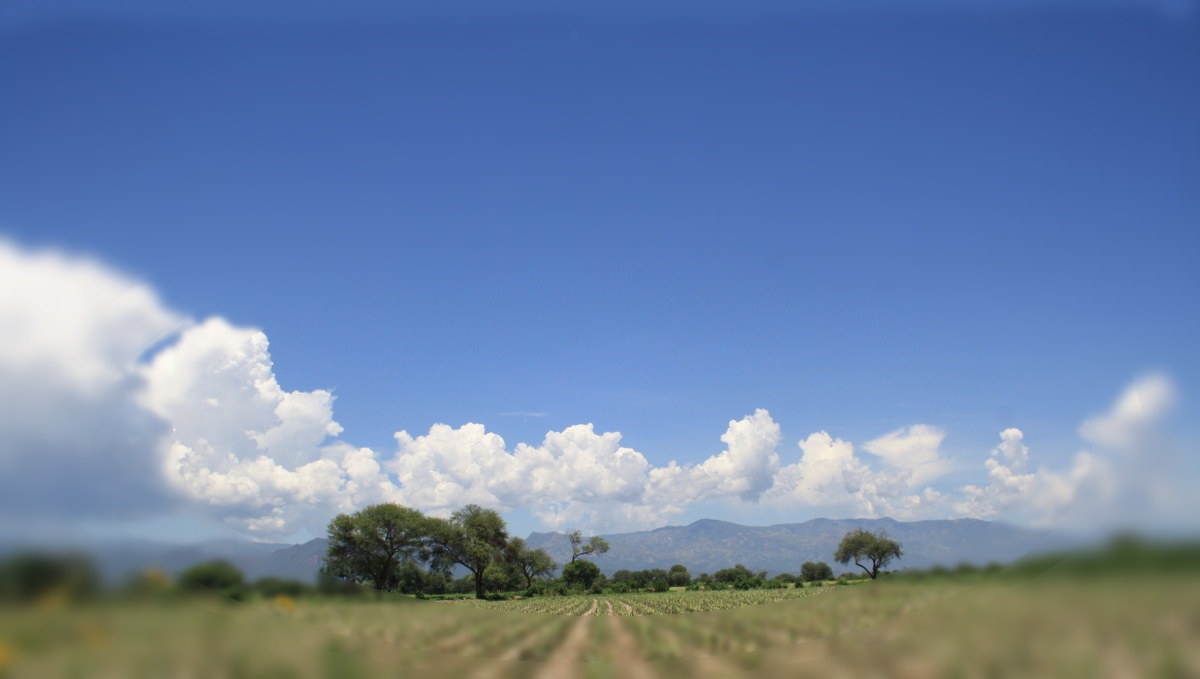
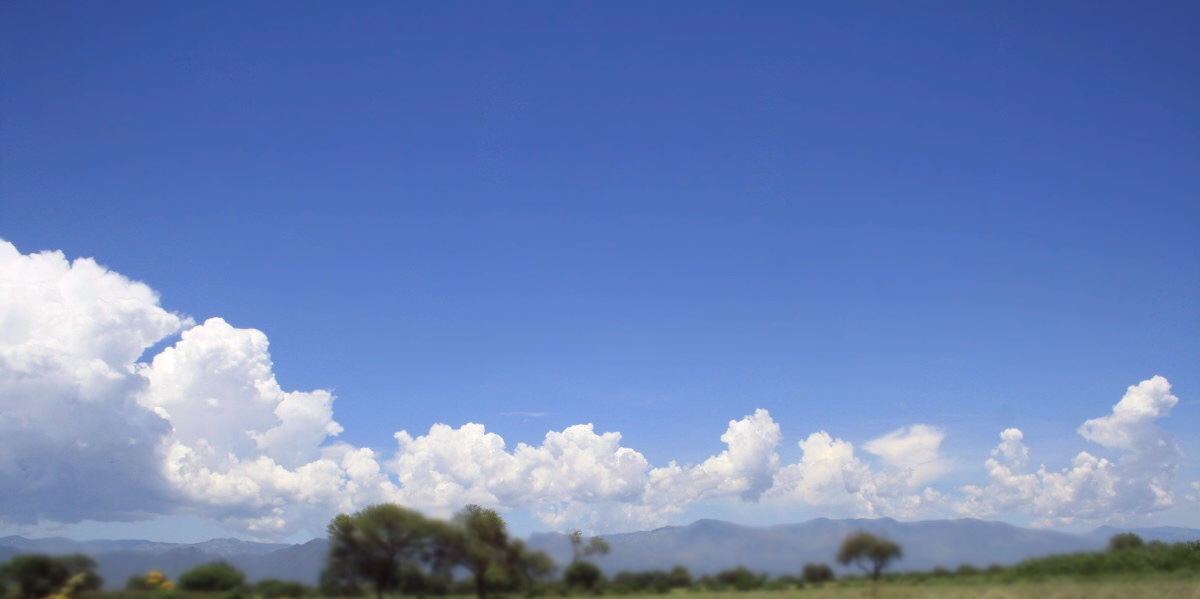
Medianoche cambios, header, backgrounds, footer

diff --git a/front-end/css/min/phyro.min.css b/front-end/css/min/phyro.min.css
@@ -1,1 +1,1 @@
-@import url(http://fonts.googleapis.com/css?family=Lato:300,400,700);body,h1,h2,h3,h4,h5,p{font-weight:300}nav h4 a img{margin-top:-5px}footer{background:#ebe9e5}footer h2,footer h3 a,footer h4 a,footer h5,footer h5 a{color:#fff;-webkit-transition:.6s ease;transition:.6s ease}footer h5 a:hover,footer h5:hover{color:#BCBAC2}footer h3 a:hover{color:#A1144F}footer h4 a:hover{color:#55ACEE}.nav-movil{font-weight:900;margin-bottom:0}.button{padding-top:12px;padding-bottom:12px}.padding-logo{padding-top:.7em}.mr{margin-right:10px}#menu-movil li{padding-bottom:10px;font-weight:900}.bg-white{background-color:rgba(255,255,255,1)}.inline{display:inline}.nav-menu{margin-top:10px;font-weight:900;font-size:2em;-webkit-transition:all 1s ease;transition:all 1s ease}.nav-menu:hover{color:rgba(100,100,100,.8)}.orange:hover{color:#E76914}.blue:hover{color:#2ba6cb}.green:hover{color:#43ac6a}.yellow:hover{color:#FFD800}.small{font-size:1em;margin-right:.4em}.tBold{font-weight:400}.mli{margin-left:.4em}.primaryC{color:#d0233c}.orbit-timer{left:-10000px;top:auto;height:1px;overflow:hidden;position:absolute;width:1px}.sFull{height:100vh}.header-index{background:url(https://unsplash.imgix.net/39/F9g2FiPUSyC7IybhyI2p_09.jpg) 50% 50%/cover}.zeroM{margin:0}.bg-laptop{background:url(/static/img/whatwedo/website_03.jpg) 80% 0/cover no-repeat fixed}#websites{background:url(/static/img/whatwedo/website_03.jpg) 80% 0/cover no-repeat fixed;height:100vh}#ecommerce{background:url(/static/img/whatwedo/website_02.jpg) 80% 0/cover no-repeat fixed;height:100vh}#ux-design{background:url(/static/img/whatwedo/website_03.jpg) 80% 0/cover no-repeat fixed;height:100vh}#mkt-online{background:url(/static/img/whatwedo/website_02.jpg) 80% 0/cover no-repeat fixed;height:100vh}#appWeb{background:url(/static/img/whatwedo/website_03.jpg) 80% 0/cover no-repeat fixed;height:100vh}.medium{font-size:2em}.socialMedia{font-size:1.2em;-webkit-transition:all .5s ease;transition:all .5s ease}.socialMedia:hover{font-size:1.5em}.large{font-size:4em}.menu-padding{padding-top:1em;padding-bottom:.1em}.padding-top{padding-top:2.5em}.padding-top-large{padding-top:5em}.contact{padding-top:3em;padding-bottom:5em}#foo{background:url(/static/img/phyro.location_01.jpg) 50% 0/cover no-repeat;box-shadow:inset 0 82px 222px -5px rgba(61,95,162,1);height:600px;padding:0}
+@import url(http://fonts.googleapis.com/css?family=Lato:300,400,700);body,h1,h2,h3,h4,h5,p{font-weight:600}nav h4 a img{margin-top:-5px}footer{background:#ebe9e5}footer h2,footer h3 a,footer h4 a,footer h5,footer h5 a{color:#fff;font-weight:700;-webkit-transition:.6s ease;transition:.6s ease}footer h5:last-child{color:#d0233c}footer h3 a:hover,footer h4 a:hover,footer h5 a:hover{color:#55ACEE}#head h2,#head h3,#head h5{color:#fff}#head h3{text-shadow:0 0 10px rgba(144,144,144,1)}.h2Text{font-size:3em}.nav-movil{font-weight:900;margin-bottom:0}.button{padding-top:12px;padding-bottom:12px}.padding-logo{padding-top:.7em}.mr{margin-right:10px}#menu-movil li{padding-bottom:10px;font-weight:900}.bg-white{background-color:rgba(255,255,255,1)}.inline{display:inline}.nav-menu{margin-top:10px;font-weight:900;font-size:2em;-webkit-transition:all 1s ease;transition:all 1s ease}.nav-menu:hover{color:rgba(100,100,100,.8)}.orange:hover{color:#E76914}.blue:hover{color:#2ba6cb}.green:hover{color:#43ac6a}.yellow:hover{color:#FFD800}.small{font-size:1em;margin-right:.4em}.tBold{font-weight:400}.mli{margin-left:.4em}.primaryC{color:#d0233c}.orbit-timer{left:-10000px;top:auto;height:1px;overflow:hidden;position:absolute;width:1px}.sFull{height:100vh}.header-index{background:url(/static/img/home/home_head_01.jpg) 50% 50%/cover}.zeroM{margin:0}.bg-laptop{background:url(/static/img/whatwedo/website_03.jpg) 80% 0/cover no-repeat fixed}#websites{background:url(/static/img/whatwedo/website_03.jpg) 80% 0/cover no-repeat fixed;height:100vh}#ecommerce{background:url(/static/img/whatwedo/website_02.jpg) 80% 0/cover no-repeat fixed;height:100vh}#ux-design{background:url(/static/img/whatwedo/website_03.jpg) 80% 0/cover no-repeat fixed;height:100vh}#mkt-online{background:url(/static/img/whatwedo/website_02.jpg) 80% 0/cover no-repeat fixed;height:100vh}#appWeb{background:url(/static/img/whatwedo/website_03.jpg) 80% 0/cover no-repeat fixed;height:100vh}.medium{font-size:2em}.socialMedia{font-size:1.2em;-webkit-transition:all .5s ease;transition:all .5s ease}.socialMedia:hover{font-size:1.5em}.large{font-size:4em}.menu-padding{padding-top:1em;padding-bottom:.1em}.padding-top{padding-top:2.5em}.padding-top-large{padding-top:5em}.contact{padding-top:3em;padding-bottom:5em}#foo{background:url(/static/img/phyro.location_01.jpg) 50% 0/cover no-repeat;height:calc(100vh - 72px);padding:0}

diff --git a/back-end/phyro/templates/home/index.html b/back-end/phyro/templates/home/index.html
@@ -2,24 +2,30 @@
 {% block contenido %}
 <header class="padding-top header-index">
     <section class="row sFull">
-        <div class="small-12 medium-8 medium-centered columns text-center padding-top">
+        <div id="head"class="small-12 medium-8 medium-centered columns text-center padding-top">
             <div class="padding-top show-for-medium-up"></div>
-            <h5 style="color:gray;"><strong>Phyro | Estudio Creativo Dígital</strong></h5>
-            <h2>DESARROLLAMOS</h2>
-            <h2><strong>TUS IDEAS</strong></h2>
+            <h5><strong>Phyro | Estudio Creativo Dígital</strong></h5>
+            <div class="show-for-medium-up">
+                <h2 class="h2Text">DESARROLLAMOS</h2>
+                <h2 class="h2Text"><strong>TUS IDEAS</strong></h2>
+            </div>
+            <div class="show-for-small-only">
+                <h2>DESARROLLAMOS</h2>
+                <h2><strong>TUS IDEAS</strong></h2>
+            </div>
             <hr>
-            <h5 class="show-for-medium-up">Y las herramientas que necesites para:</h5>
-            <h5 class="show-for-small-only" style="color:white;">Y las herramientas que necesites para:</h5>
+            <div class="show-for-medium-up padding-top"></div>
+            <h5 style="color:#d0233c;">Y las herramientas que necesites para:</h5>
             <ul class="toolPhyro" data-orbit 
                   data-options="animation_speed:800;
-                  timer_speed: 2500;
+                  timer_speed: 2700;
                   slide_number: false;
                   pause_on_hover: false;
                   navigation_arrows:false;
                   bullets:true;">
-                <li><h3><a href="#"><strong>ENCONTRAR NUEVOS MERCADOS</strong></a></h3></li>
-                <li><h3><a href="#"><strong>REDISEÑAR TU SITIO WEB</strong></a></h3></li>
-                <li><h3><a href="#"><strong>CREAR TU PRIMER TIENDA EN LÍNEA</strong></a></h3></li>
+                <li><h3><strong>ENCONTRAR NUEVOS MERCADOS</strong></h3></li>
+                <li><h3><strong>REDISEÑAR TU SITIO WEB</strong></h3></li>
+                <li><h3><strong>CREAR TU PRIMER TIENDA EN LÍNEA</strong></h3></li>
             </ul>
             <div class="row">
                 <div class="small-6 columns">
@@ -35,9 +41,14 @@
 <section class="padding-top ">
     <article class="row">
         <div class="large-6 columns text-center ">
-            <h3><a href="/team">QUIENES SOMOS</a></h3>
+            <h3><a href="/team"><strong>QUIENES SOMOS</strong></a></h3>
             <h2>DESARROLLAMOS LAS IDEAS</h2>
-            <p>Phyro es un grupo de amigos a los que nos apasiona la tecnología, cada miembro del equipo esta especialiado en areas:  </p>
+            <div class="row">
+                <div class="medium-8 medium-centered large-12 columns">
+                    <p>Phyro es un grupo de amigos a los que nos apasiona la tecnología, cada miembro del equipo esta especialiado en areas:</p>
+                </div>
+            </div>
+            
             <ul class="toolPhyro" data-orbit 
                   data-options="animation_speed:800;
                   timer_speed: 2500;

diff --git a/back-end/phyro/templates/loquehacemos/lo-que-hacemos.html b/back-end/phyro/templates/loquehacemos/lo-que-hacemos.html
@@ -2,7 +2,7 @@
 {% block contenido %}
 <header class="mainHeader padding-top">
     <section class="row padding-top">
-        <div class="small-12 columns text-center">
+        <div class="small-12 medium-8 medium-centered columns text-center">
             <h1>Desarrollamos tus Ideas</h1>
             <h5>Phyro es un  Estudio Creativo Digital. Enfocado en Desarrollar y Diseñar soluciones, en base a las ideas y necesidades de las marcas ( empresas),  para darles vida y conectar con sus clientes.</h5>
         </div>
@@ -13,33 +13,6 @@
         <div class="small-12 columns text-center">
             <h2>NUESTRA EXPERIENCIA</h2>
         </div>
-    </article>
-    <article class="row padding-top">
-        <section class="medium-10 medium-centered columns">
-            <div data-magellan-expedition="fixed" class="icon-bar five-up">
-              <a class="item intLink" href="#websites">
-                <i class="icon-screen"></i>
-                <label class="show-for-medium-up">Web Sites</label>
-              </a>
-              
-              <a href="#ecommerce" class="item intLink">
-                <i class="icon-cart"></i>
-                <label class="show-for-medium-up">Ecommerce</label>
-              </a>
-              <a href="#ux-design" class="item intLink">
-                <i class="icon-html5"></i>
-                <label class="show-for-medium-up">Diseño Web</label>
-              </a>
-              <a href="#mkt-online" class="item intLink">
-                <i class="icon-stats"></i>
-                <label class="show-for-medium-up">Marketing</label>
-              </a>
-              <a href="#appWeb" class="item intLink">
-                <i class="icon-mobile"></i>
-                <label class="show-for-medium-up">Aplicaciones</label>
-              </a>
-            </div>
-        </section>
     </article>
 </section>
 

diff --git a/front-end/css/prefixed/phyro.css b/front-end/css/prefixed/phyro.css
@@ -1,32 +1,37 @@
 @import url("http://fonts.googleapis.com/css?family=Lato:300,400,700");
 body, h1, h2, h3, h4, h5, p{
-    font-weight:300;
+    font-weight:600;
 }
 nav h4 a img{
     margin-top: -5px;
 }
-
 footer{
     background: #ebe9e5;
 
 }
 footer h2, footer h3 a, footer h4 a, footer h5 a, footer h5 {
     color: #fff;
+    font-weight: bold;
     -webkit-transition: .6s ease;
             transition: .6s ease;
 }
-footer h5 a:hover, footer h5:hover {
-    color: #BCBAC2;
+footer h5:last-child{
+    color: #d0233c;
+}
 
-}
-footer h3 a:hover{
-    color: #A1144F;
-}
-footer h4 a:hover{
+footer h5 a:hover,footer h4 a:hover,footer h3 a:hover{
     color: #55ACEE;
 
 }
-
+#head h5, #head h3, #head h2{
+    color:white;
+}
+#head h3{
+    text-shadow: 0px 0px 10px rgba(144, 144, 144, 1);
+}
+.h2Text{
+    font-size: 3em;
+}
 .nav-movil{
     font-weight: 900;
     margin-bottom: 0;
@@ -98,7 +103,7 @@ width: 1px;
     height: 100vh; 
 }
 .header-index{
-    background: url('https://unsplash.imgix.net/39/F9g2FiPUSyC7IybhyI2p_09.jpg');
+    background: url('/static/img/home/home_head_01.jpg');
     background-size: cover;
     background-position: 50% 50%;
 }
@@ -171,7 +176,6 @@ width: 1px;
 #foo { 
     background: url(/static/img/phyro.location_01.jpg) no-repeat 50% 0%;
     background-size: cover;
-    box-shadow: inset 0px 82px 222px -5px rgba(61,95,162,1);
-    height: 600px;
+    height: calc(100vh - 72px);
     padding: 0;
 }

diff --git a/front-end/css/phyro.css b/front-end/css/phyro.css
@@ -1,31 +1,36 @@
 @import url("http://fonts.googleapis.com/css?family=Lato:300,400,700");
 body, h1, h2, h3, h4, h5, p{
-    font-weight:300;
+    font-weight:600;
 }
 nav h4 a img{
     margin-top: -5px;
 }
-
 footer{
     background: #ebe9e5;
 
 }
 footer h2, footer h3 a, footer h4 a, footer h5 a, footer h5 {
     color: #fff;
+    font-weight: bold;
     transition: .6s ease;
 }
-footer h5 a:hover, footer h5:hover {
-    color: #BCBAC2;
+footer h5:last-child{
+    color: #d0233c;
+}
 
-}
-footer h3 a:hover{
-    color: #A1144F;
-}
-footer h4 a:hover{
+footer h5 a:hover,footer h4 a:hover,footer h3 a:hover{
     color: #55ACEE;
 
 }
-
+#head h5, #head h3, #head h2{
+    color:white;
+}
+#head h3{
+    text-shadow: 0px 0px 10px rgba(144, 144, 144, 1);
+}
+.h2Text{
+    font-size: 3em;
+}
 .nav-movil{
     font-weight: 900;
     margin-bottom: 0;
@@ -96,7 +101,7 @@ width: 1px;
     height: 100vh; 
 }
 .header-index{
-    background: url('https://unsplash.imgix.net/39/F9g2FiPUSyC7IybhyI2p_09.jpg');
+    background: url('/static/img/home/home_head_01.jpg');
     background-size: cover;
     background-position: 50% 50%;
 }
@@ -168,7 +173,6 @@ width: 1px;
 #foo { 
     background: url(/static/img/phyro.location_01.jpg) no-repeat 50% 0%;
     background-size: cover;
-    box-shadow: inset 0px 82px 222px -5px rgba(61,95,162,1);
-    height: 600px;
+    height: calc(100vh - 72px);
     padding: 0;
 }

diff --git a/back-end/phyro/templates/blocks/header.html b/back-end/phyro/templates/blocks/header.html
@@ -46,9 +46,9 @@
 <footer id="foo">
    <div class="row">
        <div class="small-12 medium-8 medium-centered large-6 large-centered columns text-center contact">
-            <h2>Get In Touch</h2>
+            <h2>Llamanos</h2>
             <hr />
-            <h5>¿Tienes una idea o proyecto creativo?, llamanos nos encantaria escucharte.</h5>
+            <h5>¿Tienes una idea o proyecto creativo? Nos encantaria escucharte.</h5>
 
            <h3 class="padding-top"><a href="mailto:hello@phyroserver.com"><i class="icon-mail small"></i>hello@phyroserver.com</a></h3>
             <h4><a href="/twitter" target="_blank"><i class="icon-twitter small"></i>@PhyroServer</a></h4>
